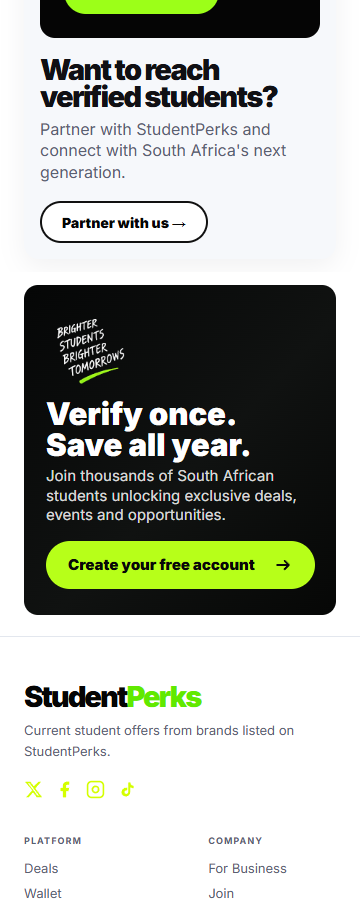
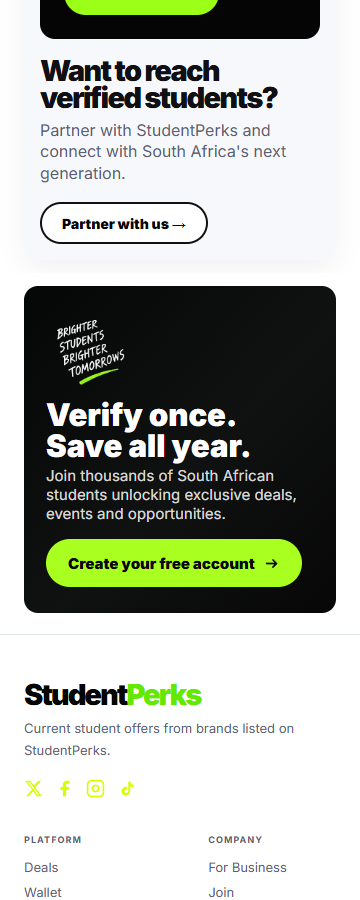
Refine verify save section layout

diff --git a/index.html b/index.html
@@ -1753,18 +1753,18 @@ body.public-redesign .applied-banner {
 }
 .verify-save {
   display: grid;
-  grid-template-columns: 132px minmax(0, 1fr) 44px auto;
+  grid-template-columns: 128px minmax(0, 1fr) 42px auto;
   align-items: center;
-  gap: 22px;
+  gap: 20px;
   min-height: 130px;
-  padding: 17px 28px;
+  padding: 15px 28px;
   overflow: hidden;
   color: #fff;
   border-radius: 14px;
-  background: #080909 url('assets/sections/verify-save/background.svg') center/cover no-repeat;
+  background: #050606 url('assets/sections/verify-save/background.svg') center/cover no-repeat;
 }
 .verify-save__mark {
-  width: 104px;
+  width: 112px;
   height: auto;
   display: block;
 }
@@ -1796,7 +1796,7 @@ body.public-redesign .applied-banner {
   min-height: 48px;
   padding: 0 26px;
   color: #080808;
-  background: #b7ff19;
+  background: #a9ff1f;
   border: 0;
   border-radius: 999px;
   font: inherit;
@@ -1811,6 +1811,65 @@ body.public-redesign .applied-banner {
   height: 20px;
 }
 @media(max-width:900px){
+  .verify-save {
+    grid-template-columns: 78px minmax(350px, 1fr) 24px auto;
+    gap: 8px;
+    min-height: 130px;
+    padding: 16px 14px;
+  }
+  .verify-save__mark {
+    width: 72px;
+  }
+  .verify-save__copy h2 {
+    font-size: 26px;
+  }
+  .verify-save__copy p {
+    max-width: 350px;
+    font-size: 11px;
+    line-height: 1.25;
+  }
+  .verify-save__rays {
+    display: block;
+    width: 24px;
+  }
+  .verify-save__button {
+    min-height: 40px;
+    gap: 8px;
+    padding: 0 12px;
+    font-size: 11px;
+  }
+  .verify-save__button img {
+    width: 17px;
+    height: 17px;
+  }
+}
+@media(max-width:760px) and (min-width:561px){
+  .verify-save {
+    grid-template-columns: 70px minmax(330px, 1fr) 20px auto;
+    gap: 8px;
+    padding: 16px 14px;
+  }
+  .verify-save__mark {
+    width: 64px;
+  }
+  .verify-save__copy h2 {
+    font-size: 24px;
+  }
+  .verify-save__copy p {
+    max-width: 330px;
+    font-size: 10px;
+  }
+  .verify-save__rays {
+    width: 20px;
+  }
+  .verify-save__button {
+    min-height: 38px;
+    gap: 8px;
+    padding: 0 11px;
+    font-size: 9px;
+  }
+}
+@media(max-width:560px){
   .verify-save {
     grid-template-columns: 1fr;
     gap: 12px;
@@ -1834,6 +1893,8 @@ body.public-redesign .applied-banner {
     max-width: 100%;
     margin-top: 4px;
     padding: 0 22px;
+    min-height: 48px;
+    font-size: 15px;
   }
 }
 </style>
